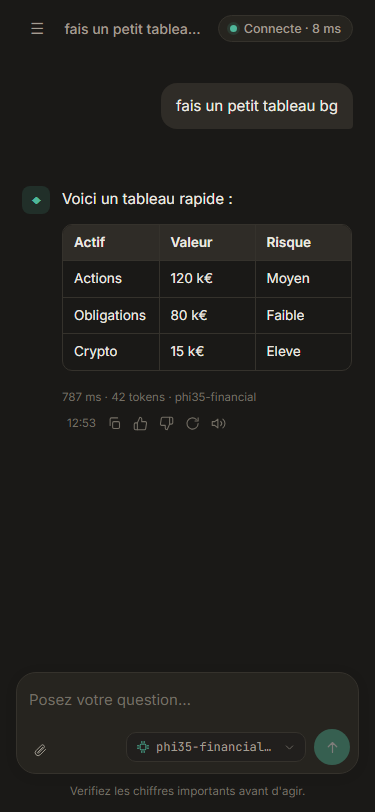
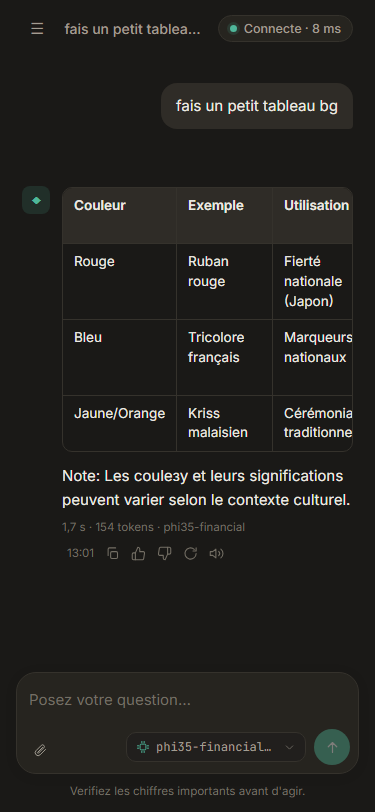
docs: met a jour les screenshots avec les metriques d'inference et nettoie les outils de test internes

Changed region(s): [[0.1467, 0.2155, 0.9387, 0.7081], [0.6747, 0.2463, 0.9387, 0.4926]]

diff --git a/rendu/devweb/README.md b/rendu/devweb/README.md
@@ -93,10 +93,9 @@ Avantage : pas de CORS cote navigateur, et l'URL reelle du serveur d'inference r
 - Une garde cote client interrompt la generation si la reponse devient incoherente ou repetitive.
 - Les demandes de code sont recadrees localement sans appeler le serveur.
 
-## Tests rapides
+## Verification rapide
 
 ```bash
-npm test
 npm run build
 ```
 
@@ -121,7 +120,6 @@ Puis ouvrir [http://localhost:8080](http://localhost:8080).
 ```text
 rendu/devweb/
 ├─ docs/screenshots/       captures du rendu
-├─ scripts/                controles rapides du rendu
 ├─ src/
 │  ├─ components/          Sidebar, Composer, Message, SettingsPanel...
 │  ├─ lib/                 client Ollama, rendu Markdown, stockage local